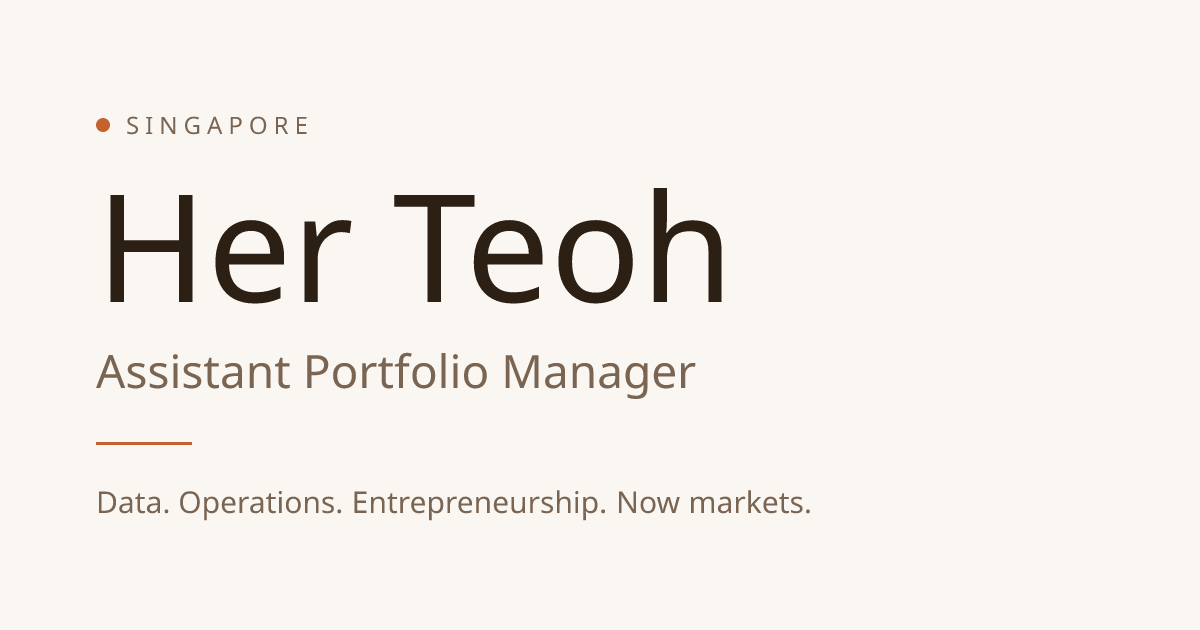
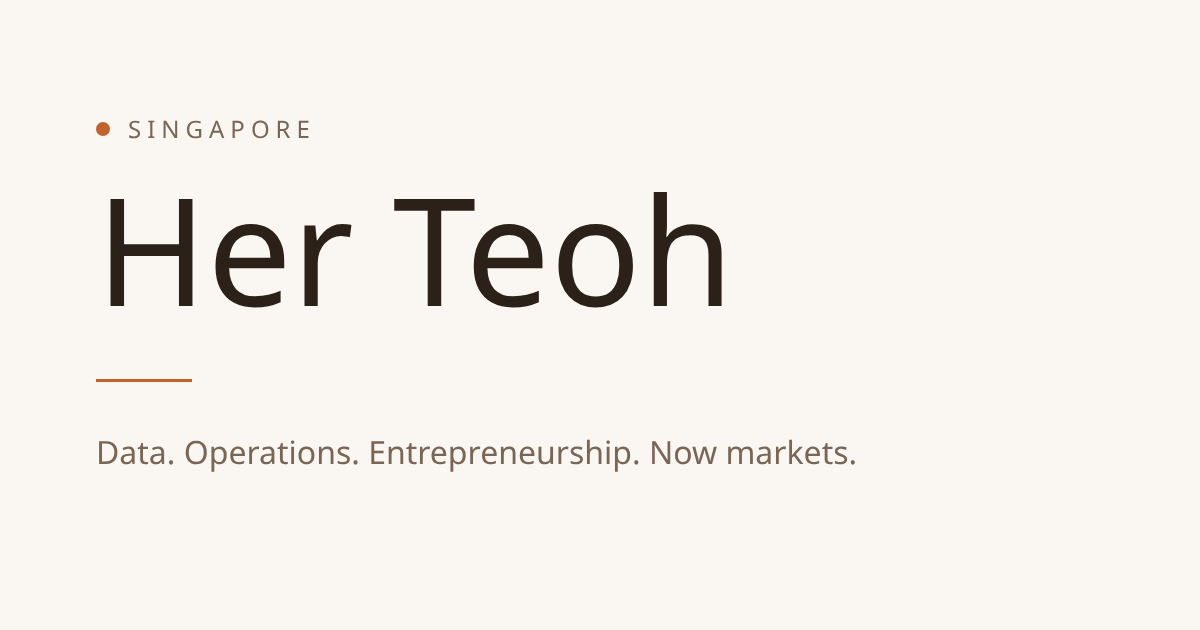
Remove job title; restore LinkedIn contact in privacy policy
Drop 'Assistant Portfolio Manager' from the hero, page title, meta
description, social preview image and About section. Restore the LinkedIn
contact line in the privacy policy only. Fix doubled site name in the
Credits page title.

Claude-Session: https://claude.ai/code/session_018enwEGX9uMmrxoxDBHfNMM

diff --git a/components/about.tsx b/components/about.tsx
@@ -4,7 +4,7 @@ const milestones = [
   { label: "Data Engineer", sub: "Neuron Mobility" },
   { label: "Operations Excellence", sub: "Neuron Mobility" },
   { label: "Entrepreneur", sub: "Fitness" },
-  { label: "Assistant Portfolio Manager", sub: "Singular Asset Management" },
+  { label: "Public Equities", sub: "Singular Asset Management" },
 ];
 
 export default function About() {
@@ -57,7 +57,7 @@ export default function About() {
               build and run something from scratch.
             </p>
             <p>
-              I am now an Assistant Portfolio Manager at{" "}
+              I now work at{" "}
               <span className="text-foreground">Singular Asset Management</span>,
               focused on public equities across Asia with an emphasis on ASEAN
               markets. I bring to the role what the earlier chapters gave me:

diff --git a/lib/site.ts b/lib/site.ts
@@ -1,9 +1,10 @@
 export const site = {
   name: "Her Teoh",
-  title: "Her Teoh — Assistant Portfolio Manager",
+  title: "Her Teoh",
   description:
-    "Personal website of Her Teoh, an Assistant Portfolio Manager in Singapore covering Asian public equities. From data pipelines to portfolios — a builder at heart.",
+    "Personal website of Her Teoh, based in Singapore and focused on Asian public equities. From data pipelines to portfolios — a builder at heart.",
   url: "https://herteoh.com",
+  linkedin: "https://www.linkedin.com/in/herteoh/",
   // Public GoatCounter site code (not a secret). Analytics is skipped when unset.
   goatcounterCode: process.env.NEXT_PUBLIC_GOATCOUNTER_CODE ?? "",
 };

diff --git a/app/privacy/page.tsx b/app/privacy/page.tsx
@@ -1,5 +1,6 @@
 import type { Metadata } from "next";
 import LegalPage from "@/components/legal-page";
+import { site } from "@/lib/site";
 
 export const metadata: Metadata = {
   title: "Privacy Policy",
@@ -52,7 +53,9 @@ export default function Privacy() {
       <h2>Your rights</h2>
       <p>
         Because no personal data that identifies you is stored, there is
-        usually nothing to access or delete.
+        usually nothing to access or delete. If you have a question or request
+        under Singapore&apos;s Personal Data Protection Act 2012, contact me via{" "}
+        <a href={site.linkedin} target="_blank" rel="noopener noreferrer">LinkedIn</a>.
       </p>
 
       <h2>Changes</h2>

diff --git a/components/hero.tsx b/components/hero.tsx
@@ -30,14 +30,9 @@ export default function Hero() {
           </h1>
           </FadeIn>
 
-          {/* Role */}
-          <FadeIn delay={0.3}>
-          <p className="font-serif italic text-[clamp(1.1rem,3vw,2rem)] text-muted-foreground mt-4 mb-10">
-            Assistant Portfolio Manager
-          </p>
-
           {/* Divider */}
-          <div className="w-16 h-px bg-accent mb-10" aria-hidden="true" />
+          <FadeIn delay={0.3}>
+          <div className="w-16 h-px bg-accent mt-10 mb-10" aria-hidden="true" />
           </FadeIn>
 
           {/* One-liner */}

diff --git a/app/credits/page.tsx b/app/credits/page.tsx
@@ -3,7 +3,7 @@ import { categoryOrder, credits } from "@/lib/credits";
 import FadeIn from "@/components/fade-in";
 
 export const metadata: Metadata = {
-  title: "Credits — Her Teoh",
+  title: "Credits",
   description:
     "The open-source projects, fonts, tools and ideas this site is built on, with thanks to their creators.",
 };
